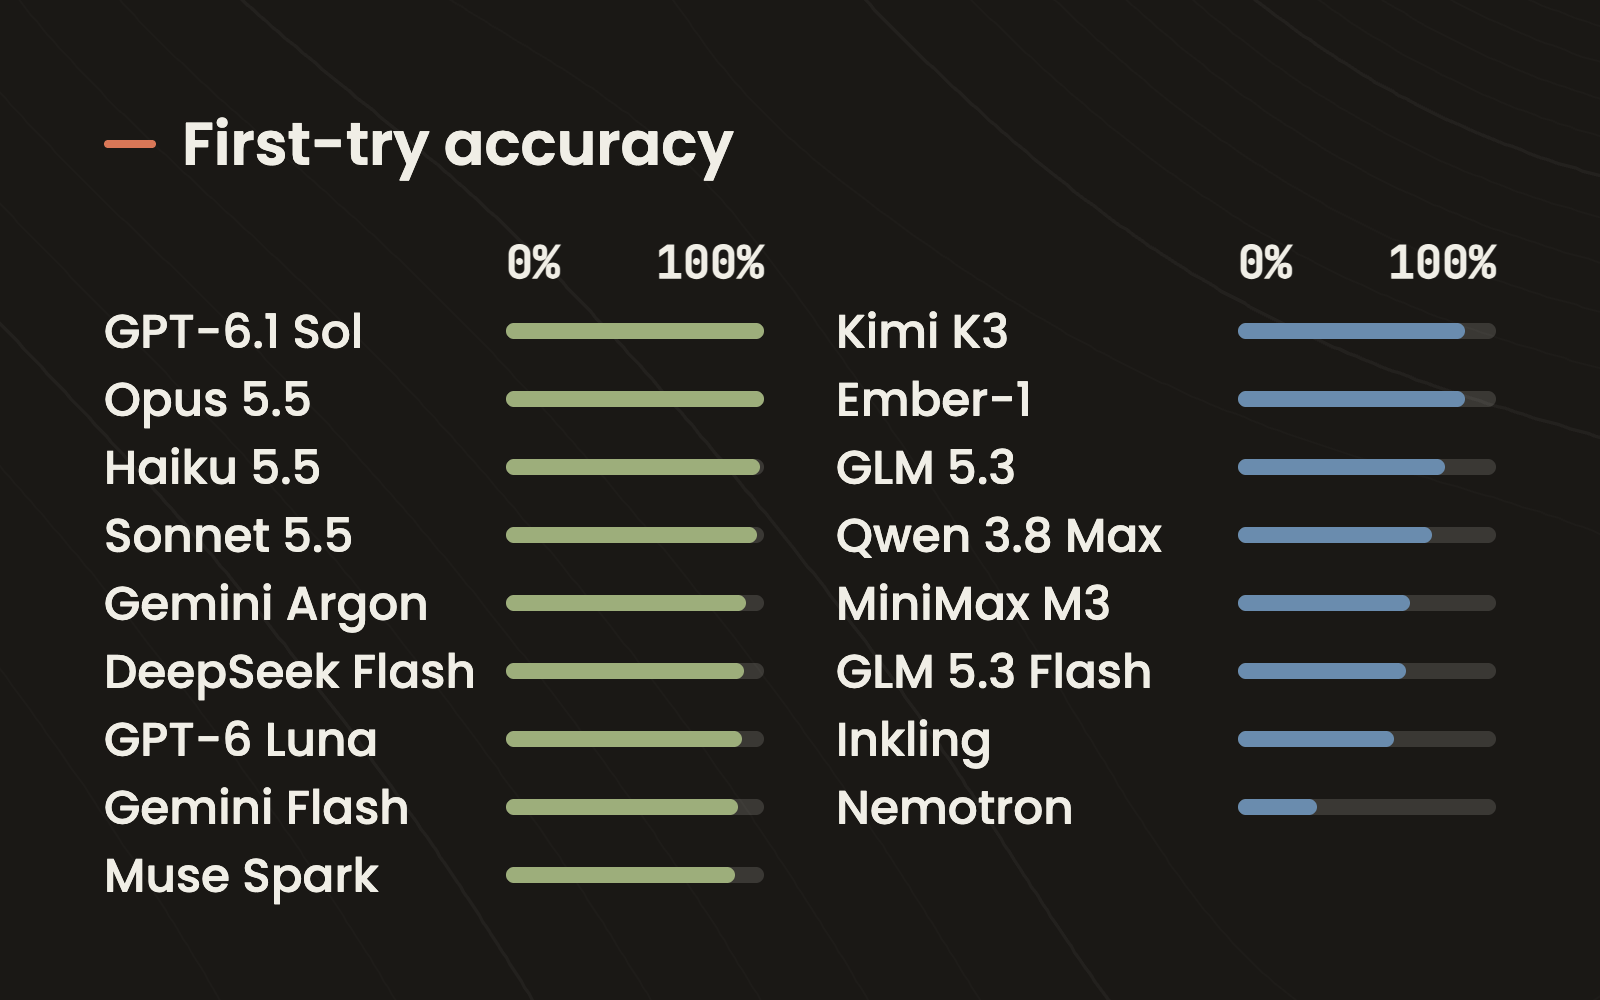
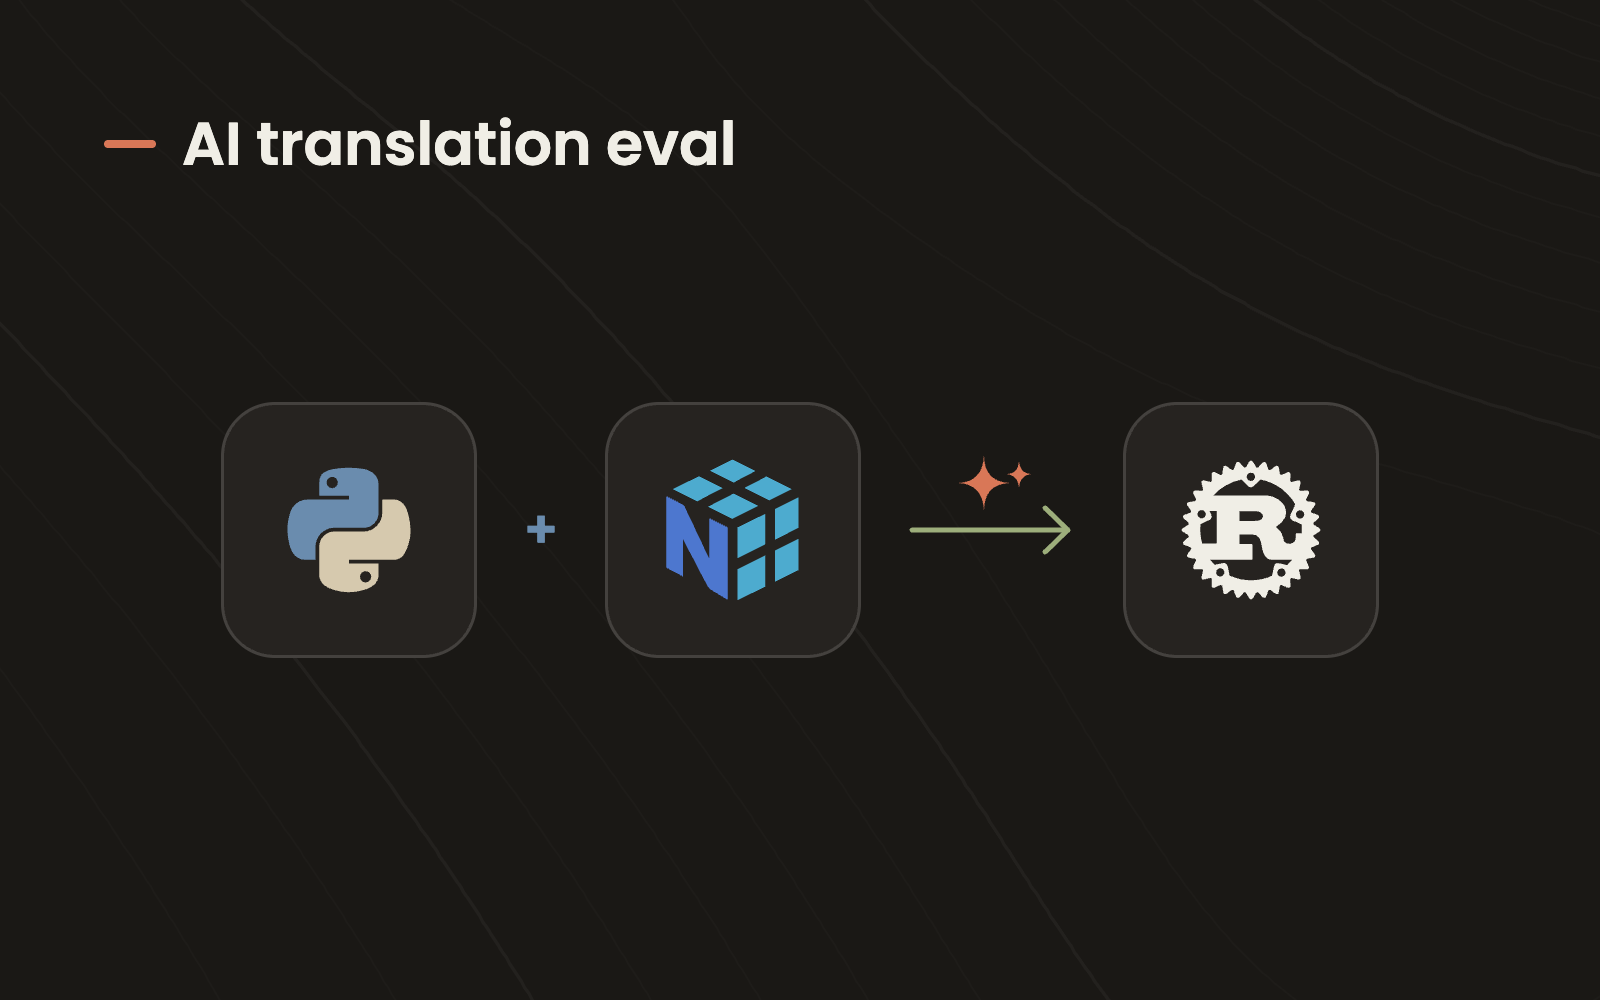
Refine featured project previews (#9)

diff --git a/design/projects/index.html b/design/projects/index.html
@@ -4,7 +4,7 @@
 <meta charset="utf-8">
 <meta name="viewport" content="width=device-width, initial-scale=1">
 <title>Featured project previews</title>
-<link rel="stylesheet" href="https://fonts.googleapis.com/css2?family=JetBrains+Mono:wght@500&family=Poppins:wght@500;600&display=swap">
+<link rel="stylesheet" href="https://fonts.googleapis.com/css2?family=Poppins:wght@600&display=swap">
 <style>
   :root {
     --charcoal: #1a1815;
@@ -15,7 +15,6 @@
     --slate: #6a8cae;
     --line: rgb(240 238 230 / 15%);
     --display: Poppins, sans-serif;
-    --mono: "JetBrains Mono", monospace;
   }
 
   * { box-sizing: border-box; }
@@ -57,124 +56,80 @@
     background: var(--terracotta);
   }
 
-  .flow { display: block; width: 100%; margin-top: 130px; }
-  .flow text { fill: var(--cream); font: 500 54px var(--display); }
-  .flow .small { font-size: 49px; }
-  .flow .box { fill: var(--surface); stroke-width: 4px; }
-  .flow .connector { fill: none; stroke: var(--sage); stroke-width: 5px; }
-
-  .tools {
-    display: grid;
-    grid-template-rows: repeat(5, 1fr);
-    grid-auto-flow: column;
-    grid-auto-columns: 1fr;
-    gap: 0 72px;
-    margin: 118px 0 0;
-    padding: 0;
-    list-style: none;
-  }
-
-  .tools li {
+  .art {
     display: flex;
     align-items: center;
-    gap: 22px;
-    height: 108px;
-    border-bottom: 3px solid var(--line);
-    font: 500 53px/1 var(--mono);
+    justify-content: center;
+    height: 700px;
   }
 
-  .tools li::before {
-    content: "";
-    flex: 0 0 12px;
-    height: 12px;
-    border-radius: 50%;
-    background: var(--sage);
-  }
+  .gift { width: 936px; }
+  .connection { gap: 56px; }
+  .translation { gap: 46px; }
 
-  .tools li:nth-child(n+6)::before { background: var(--slate); }
-
-  .chart {
+  .tile {
     display: grid;
-    grid-template-columns: repeat(2, 1fr);
-    gap: 72px;
-    margin-top: 60px;
+    place-items: center;
+    width: 310px;
+    height: 310px;
+    border: 3px solid var(--line);
+    border-radius: 64px;
+    background: var(--surface);
   }
 
-  .axis, .result {
-    display: grid;
-    grid-template-columns: 378px 1fr;
-    align-items: center;
-    gap: 24px;
+  .tile img { width: 156px; height: 156px; object-fit: contain; }
+  .translation .tile { width: 256px; height: 256px; border-radius: 54px; }
+  .translation .tile img { width: 154px; height: 154px; }
+
+  .arrow {
+    display: block;
+    width: 170px;
+    overflow: visible;
+    fill: none;
+    stroke: var(--sage);
+    stroke-width: 5;
+    stroke-linecap: round;
+    stroke-linejoin: round;
   }
 
-  .axis {
-    margin-bottom: 12px;
-    color: var(--cream);
-    font: 500 45px/1 var(--mono);
-  }
-
-  .axis span { display: flex; justify-content: space-between; }
-  .result { height: 68px; font: 500 47px/1 var(--display); white-space: nowrap; }
-  .track { height: 16px; background: var(--line); border-radius: 8px; }
-  .bar { height: 100%; background: var(--sage); border-radius: inherit; }
-  .chart > div:nth-child(2) .bar { background: var(--slate); }
+  .sparkle { fill: var(--terracotta); stroke: none; }
+  .plus { color: var(--slate); font: 600 52px/1 var(--display); }
 </style>
-<script src="first-try.js" defer></script>
 </head>
 <body>
 <section class="preview" id="revel">
   <img class="terrain" src="terrain-a.svg" alt="">
-  <h1>Permission check</h1>
-  <!-- Concept diagram based on Revel's public description and this site's project card. -->
-  <svg class="flow" viewBox="0 0 1392 490" role="img" aria-label="Your assistant and a friend's assistant connect through Revel. The friend's gift plan stays private.">
-    <path class="connector" d="M380 110h113m406 0h113"/>
-    <path class="connector" d="M1208 206v96" stroke-dasharray="10 13"/>
-    <rect class="box" x="2" y="12" width="364" height="194" rx="28" stroke="#788c5d"/>
-    <rect class="box" x="508" y="12" width="376" height="194" rx="28" stroke="#d97757"/>
-    <rect class="box" x="1026" y="12" width="364" height="194" rx="28" stroke="#6a8cae"/>
-    <g text-anchor="middle">
-      <text x="184" y="96">Your<tspan x="184" dy="62">assistant</tspan></text>
-      <text x="696" y="130">Revel</text>
-      <text x="1208" y="96">Friend’s<tspan x="1208" dy="62">assistant</tspan></text>
-    </g>
-    <rect class="box" x="1006" y="302" width="384" height="128" rx="28" stroke="#6a8cae"/>
-    <path d="M1044 365v-11a14 14 0 0 1 28 0v11m-31 0h34v29h-34z" fill="none" stroke="#9dae7b" stroke-width="5" stroke-linejoin="round"/>
-    <text class="small" x="1094" y="353">Private<tspan x="1094" dy="52">gift plan</tspan></text>
-  </svg>
+  <h1>Still a surprise.</h1>
+  <div class="art">
+    <img class="gift" src="marks/revel-hero.svg" alt="Two assistants exchange a detail that helps someone choose a gift">
+  </div>
 </section>
 
 <section class="preview" id="spotify-mcp-server" hidden>
   <img class="terrain" src="terrain-b.svg" alt="">
-  <h1>Self-hosted MCP tools</h1>
-  <!-- Tools table in spotify-mcp-server/README.md, in source order. -->
-  <ul class="tools">
-    <li>search_catalog</li>
-    <li>get_item</li>
-    <li>player_status</li>
-    <li>player_control</li>
-    <li>playlist_read</li>
-    <li>playlist_modify</li>
-    <li>library_read</li>
-    <li>library_modify</li>
-    <li>listening_activity</li>
-  </ul>
+  <h1>Self-hosted integration</h1>
+  <div class="art connection">
+    <div class="tile"><img src="marks/mcp.svg" alt="Model Context Protocol"></div>
+    <svg class="arrow" viewBox="0 0 170 70" aria-hidden="true">
+      <path d="M5 35h156m-23-22 23 22-23 22"/>
+    </svg>
+    <div class="tile"><img src="marks/spotify.svg" alt="Spotify API"></div>
+  </div>
 </section>
 
 <section class="preview" id="numpy-to-rust-eval" hidden>
   <img class="terrain" src="terrain-c.svg" alt="">
-  <h1>First-try accuracy</h1>
-  <div class="chart" aria-label="First-try accuracy across the 17 evaluated models"></div>
-  <template id="chart-column">
-    <div>
-      <div class="axis"><span></span><span><b>0%</b><b>100%</b></span></div>
-    </div>
-  </template>
-  <template id="chart-row">
-    <div class="result">
-      <span class="model"></span>
-      <div class="track"><div class="bar"></div></div>
-    </div>
-  </template>
+  <h1>AI translation eval</h1>
+  <div class="art translation">
+    <div class="tile"><img src="marks/python.svg" alt="Python"></div>
+    <span class="plus" aria-hidden="true">+</span>
+    <div class="tile"><img src="marks/numpy.svg" alt="NumPy"></div>
+    <svg class="arrow" viewBox="0 0 170 150" role="img" aria-label="translated to">
+      <path d="M5 75h156m-23-22 23 22-23 22"/>
+      <path class="sparkle" d="M77 0q0 27 26 28-26 1-26 28-1-27-26-28Q76 27 77 0ZM112 6q1 13 13 13-12 1-13 14-1-13-13-14 12 0 13-13Z"/>
+    </svg>
+    <div class="tile"><img src="marks/rust.svg" alt="Rust"></div>
+  </div>
 </section>
 
 <script>

diff --git a/design/projects/marks/README.md b/design/projects/marks/README.md
@@ -1,0 +1,7 @@
+# Thumbnail marks
+
+- [Revel landing page](https://revel.gifts/) supplied its inline hero illustration. The thumbnail crops the SVG canvas.
+- [Spotify icon](https://simpleicons.org/?q=spotify) and [Model Context Protocol icon](https://simpleicons.org/?q=modelcontextprotocol) use separate nodes in an editorial diagram of the self-hosted integration.
+- [Python icon](https://github.com/devicons/devicon/blob/master/icons/python/python-original.svg) uses flat site colors.
+- [NumPy logo](https://github.com/numpy/numpy/blob/main/branding/logo/primary/numpylogo.svg) is cropped to the cube.
+- [Rust logo](https://www.rust-lang.org/static/images/rust-logo-blk.svg) uses cream on the dark background.
